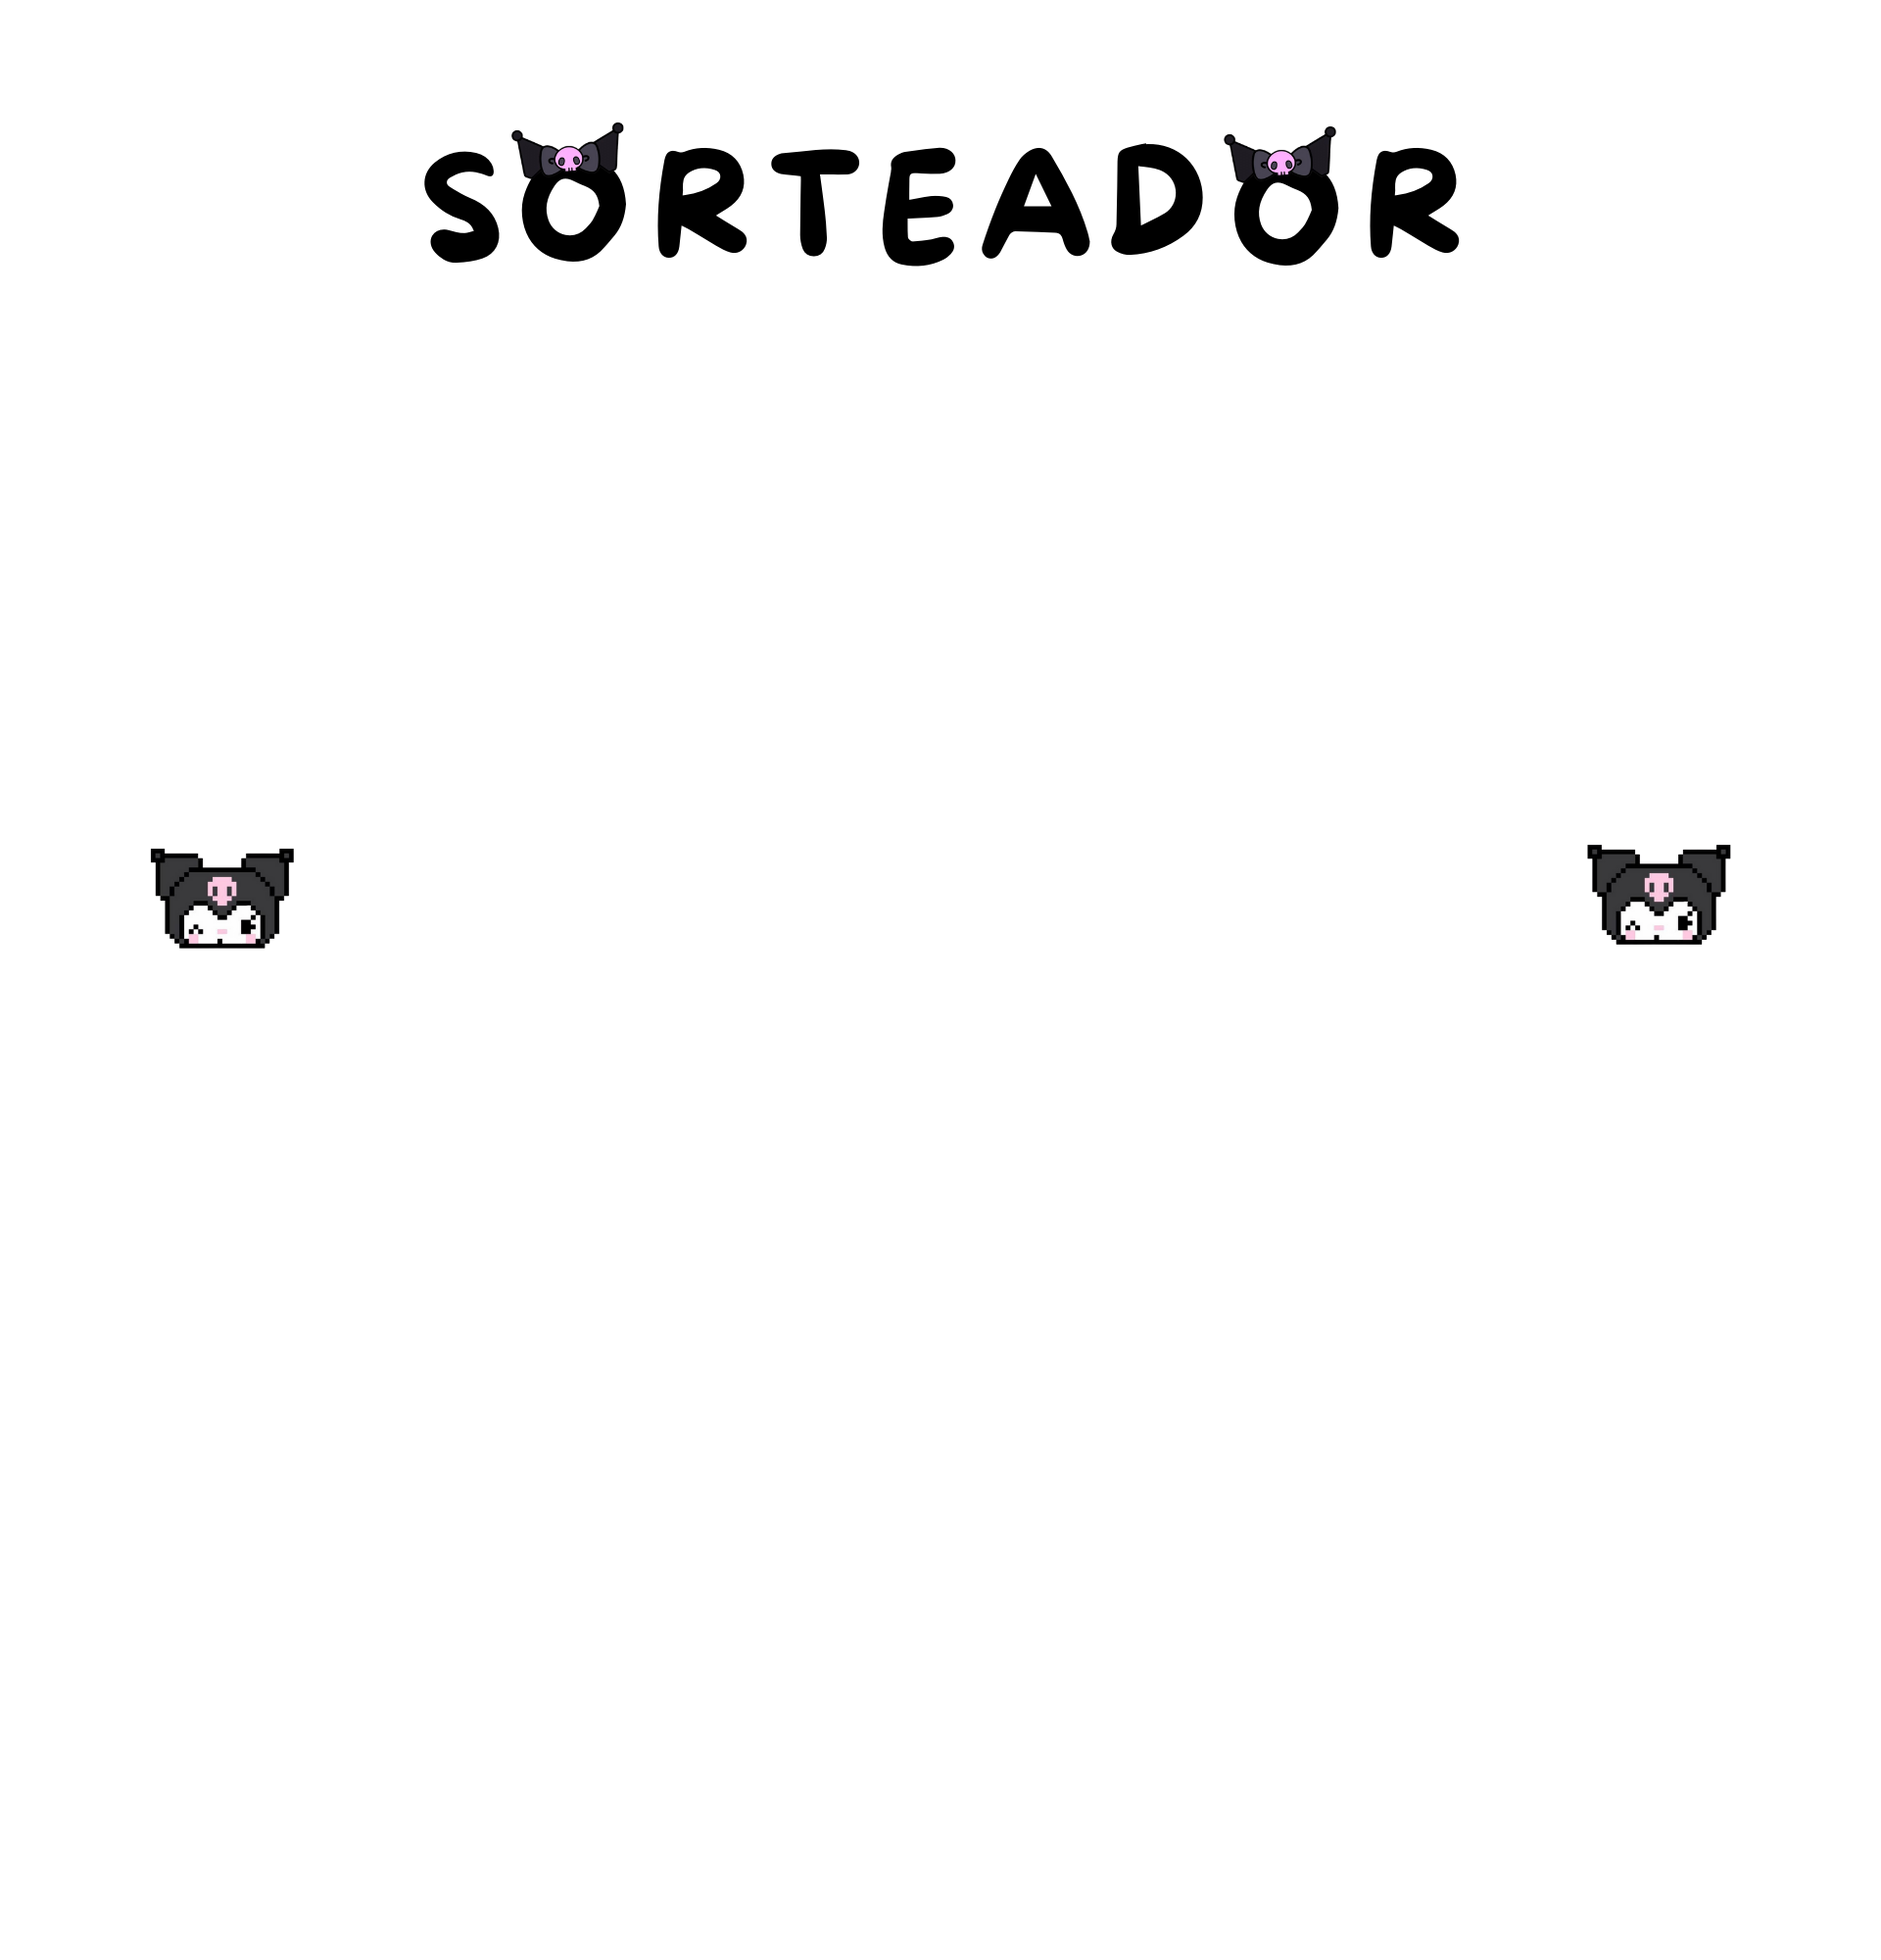
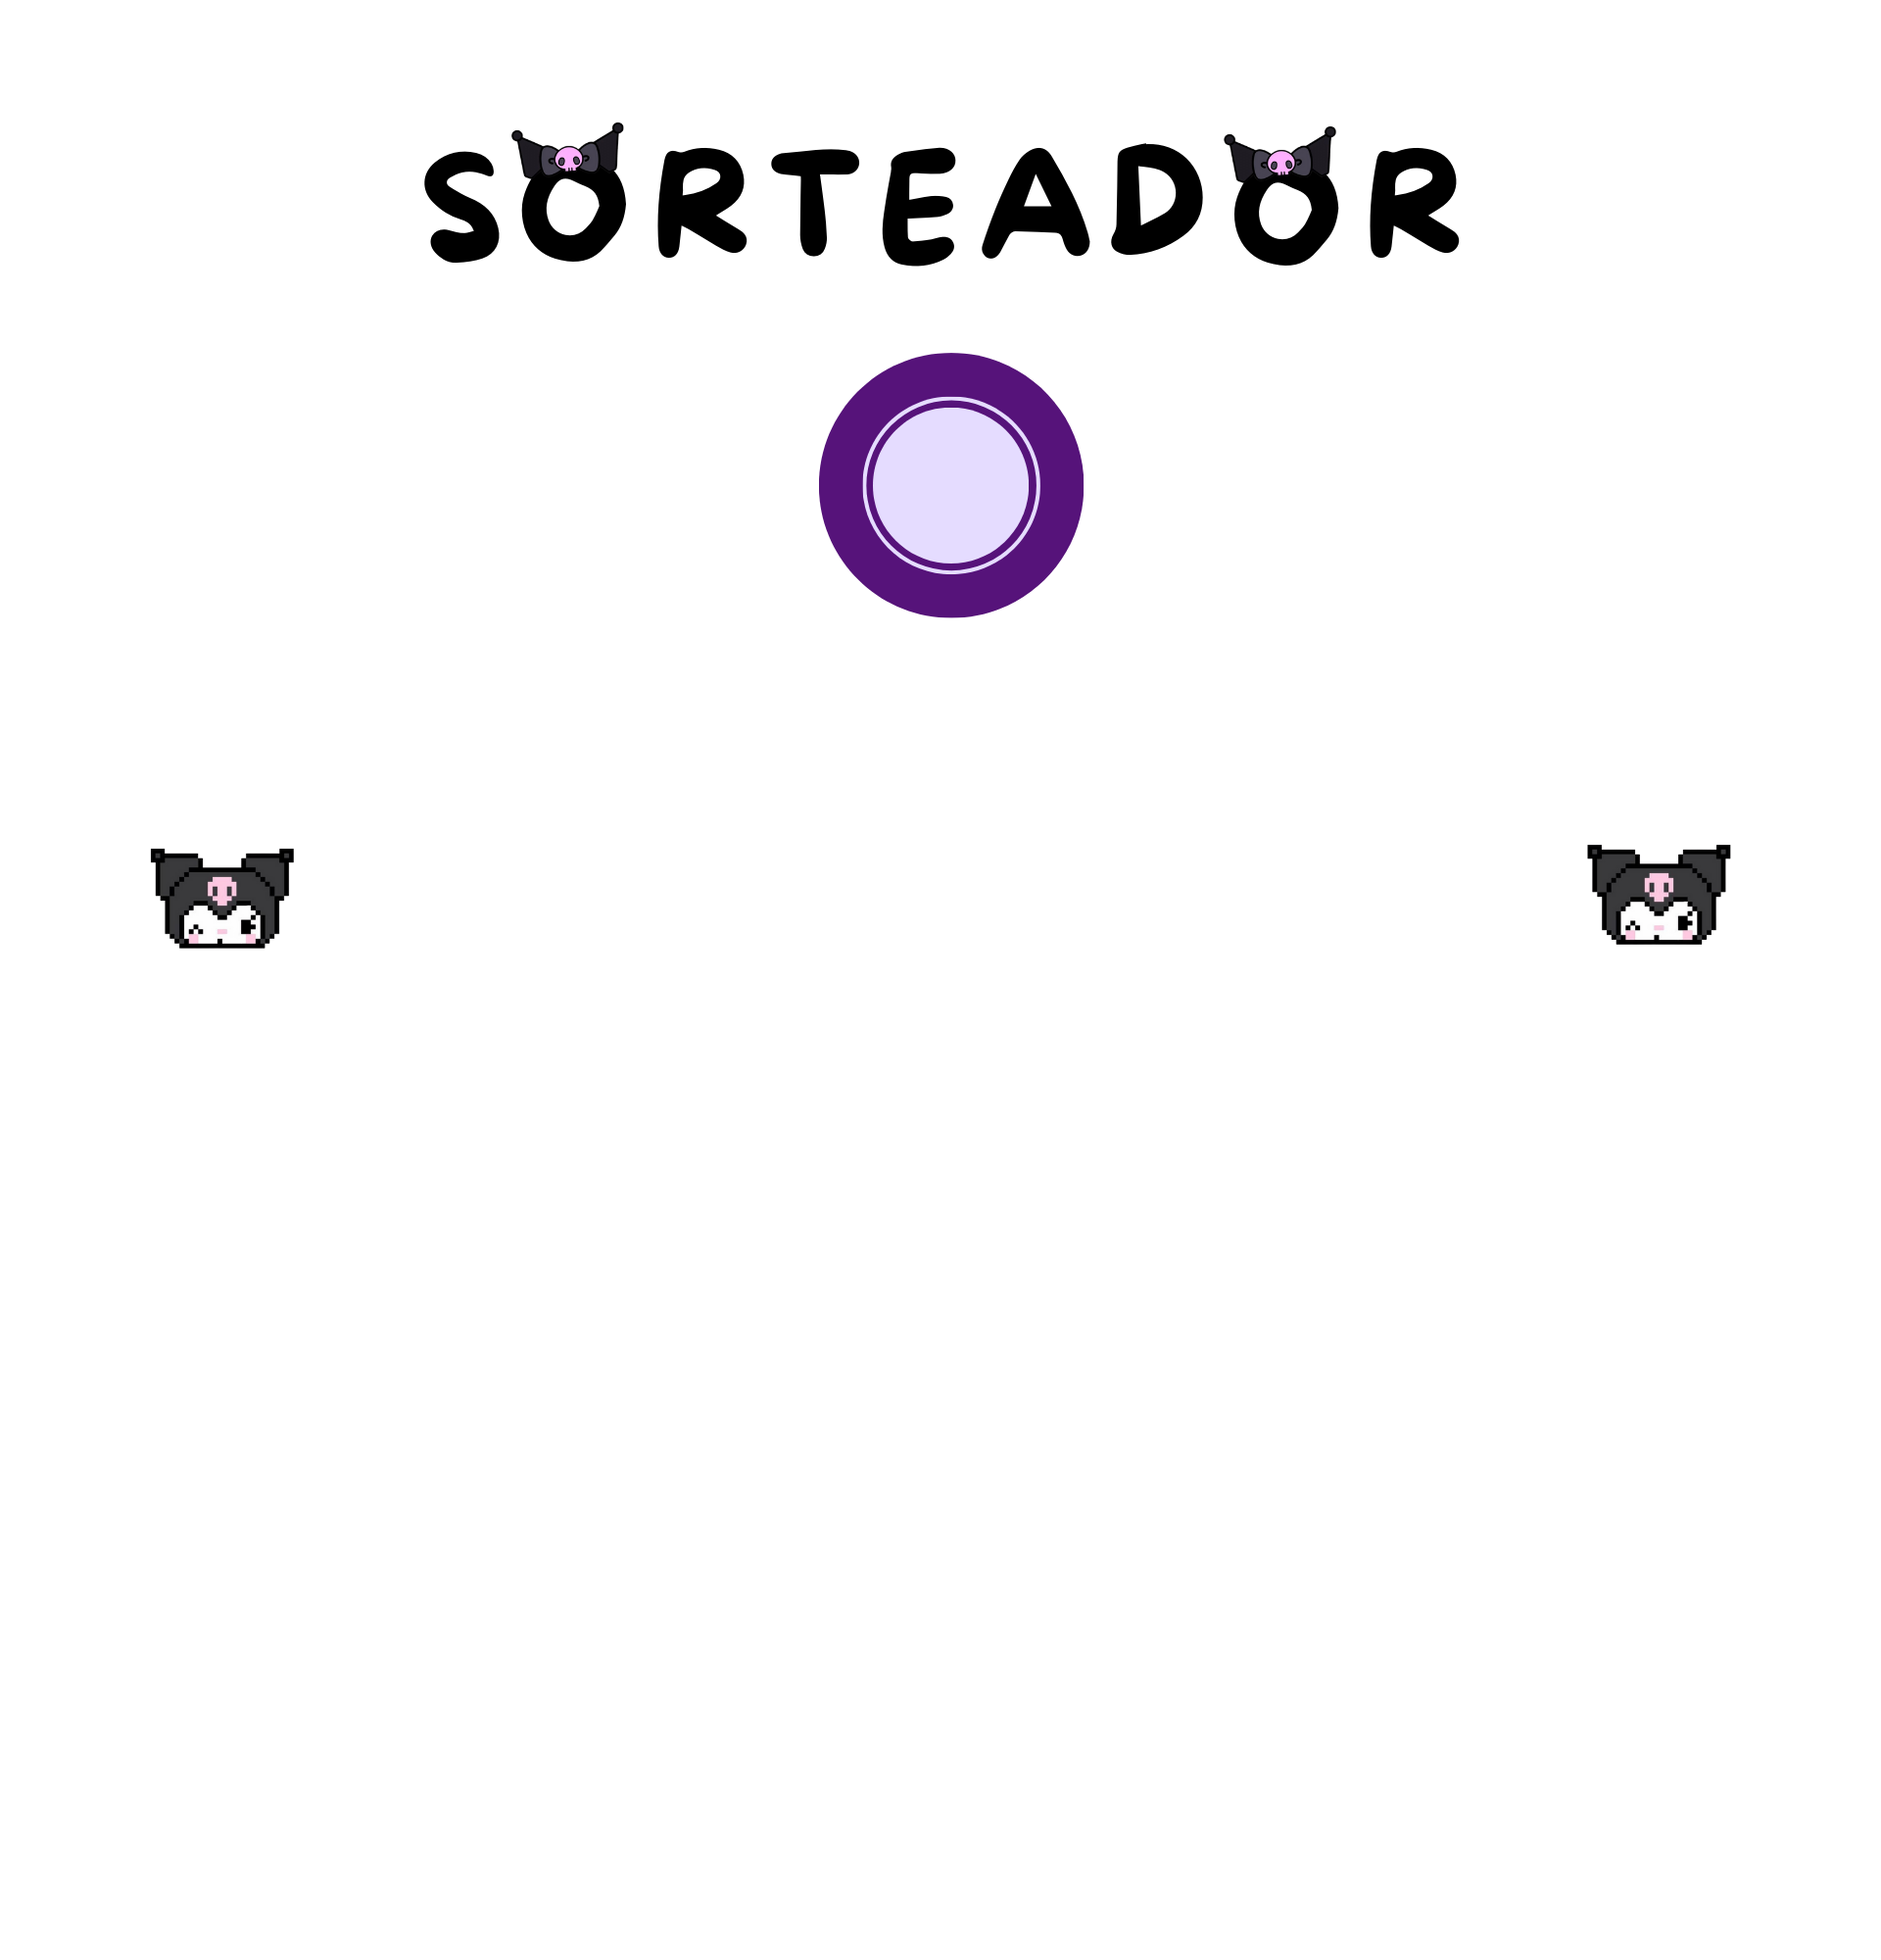
bingouu

Changed region(s): [[0.4375, 0.155, 0.5938, 0.341]]

diff --git a/style2.css b/style2.css
@@ -1,6 +1,6 @@
 body {
     font-family: 'Comic Sans MS', cursive, sans-serif;
-    background-color: #d6caff !important;
+    background-color: #d6caff;
     text-align: center;
     margin: 0px;
     padding: 20px;
@@ -13,14 +13,23 @@ body {
     width: 100%;
     height: 100%;
     align-items: center;
-    justify-content: center;
+    z-index: -15;
 }
 
 #bola {
-    font-size: 50px;
+    font-size: 60px;
     font-weight: bold;
     color: #000000;
+    margin-top: 28rem;
+    z-index: 1;
+    position: absolute;
+    left: 65rem;
+}
+
+.todo {
     justify-content: center;
+    align-items: center;
+    position: relative;
 }
 
 

diff --git a/index2.html b/index2.html
@@ -10,12 +10,16 @@
 
 <body>
 
+    </div class="todo">
+        <div id="bola"></div>
 
-    <div id="bola"></div>
+        <div class="foto">
+            <img src="sortear.png" alt="sorteador" />
+        </div>
 
-    <div class="foto">
-        <img src="sortear.png" alt="sorteador" />
-    </div>
+    <div>
+
+    
 
     <div class="botoes">
         <button class="btn" onclick="sortear()">Sortear</button>
@@ -24,7 +28,7 @@
 
     <div id="mensagem"></div>
 
-    <!-- Cabeçalho BINGO -->
+    <!--- Cabeçalho BINGO ----->
     <div id="bingoBoard">
         <div class="coluna">
             <div class="letra">B</div>

diff --git a/index.html b/index.html
@@ -13,6 +13,7 @@
     <div class="bingoContainer">
         <div class="bingoCard" id="bingoCard"></div>
     </div>
+    
     <div class="resultado" id="resultado"></div>
 
     <div class="botoes">
